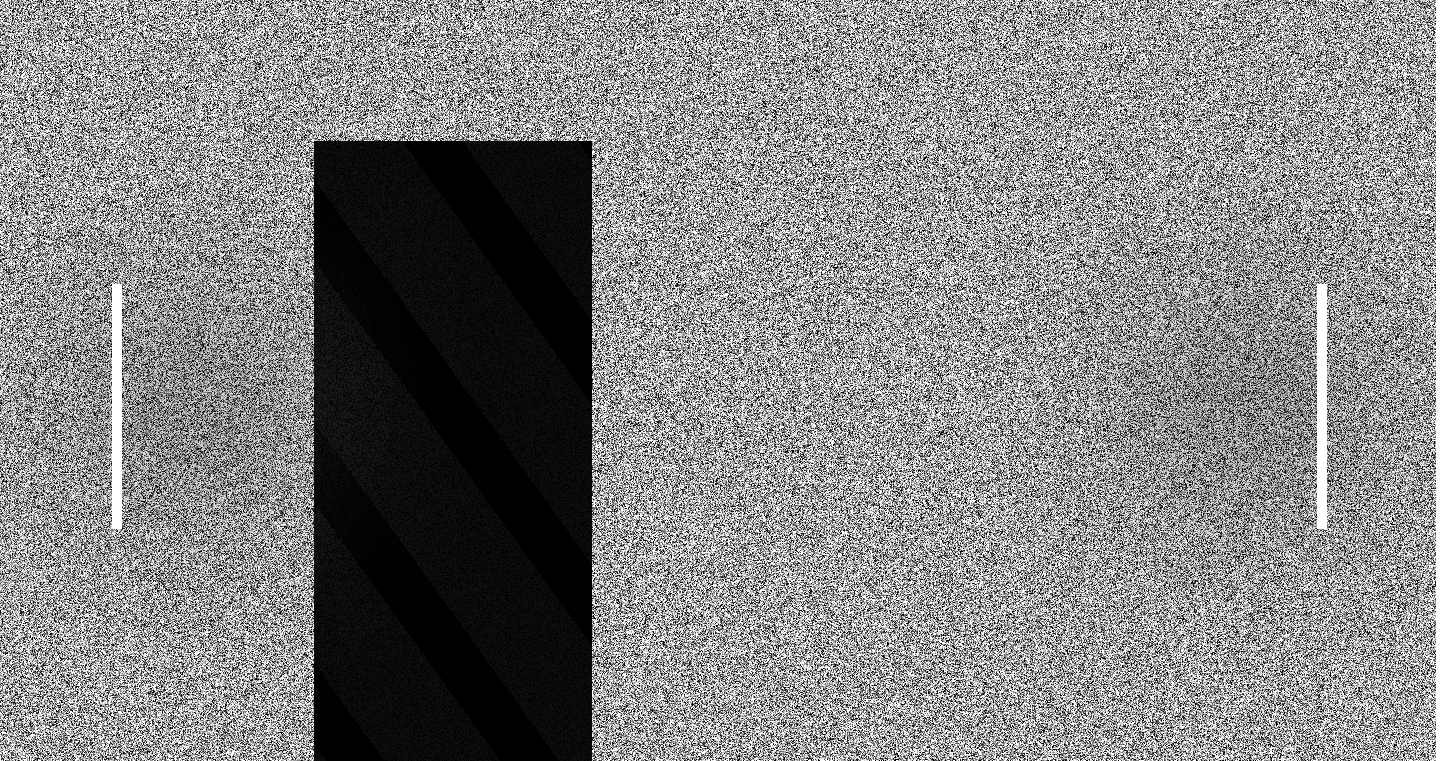
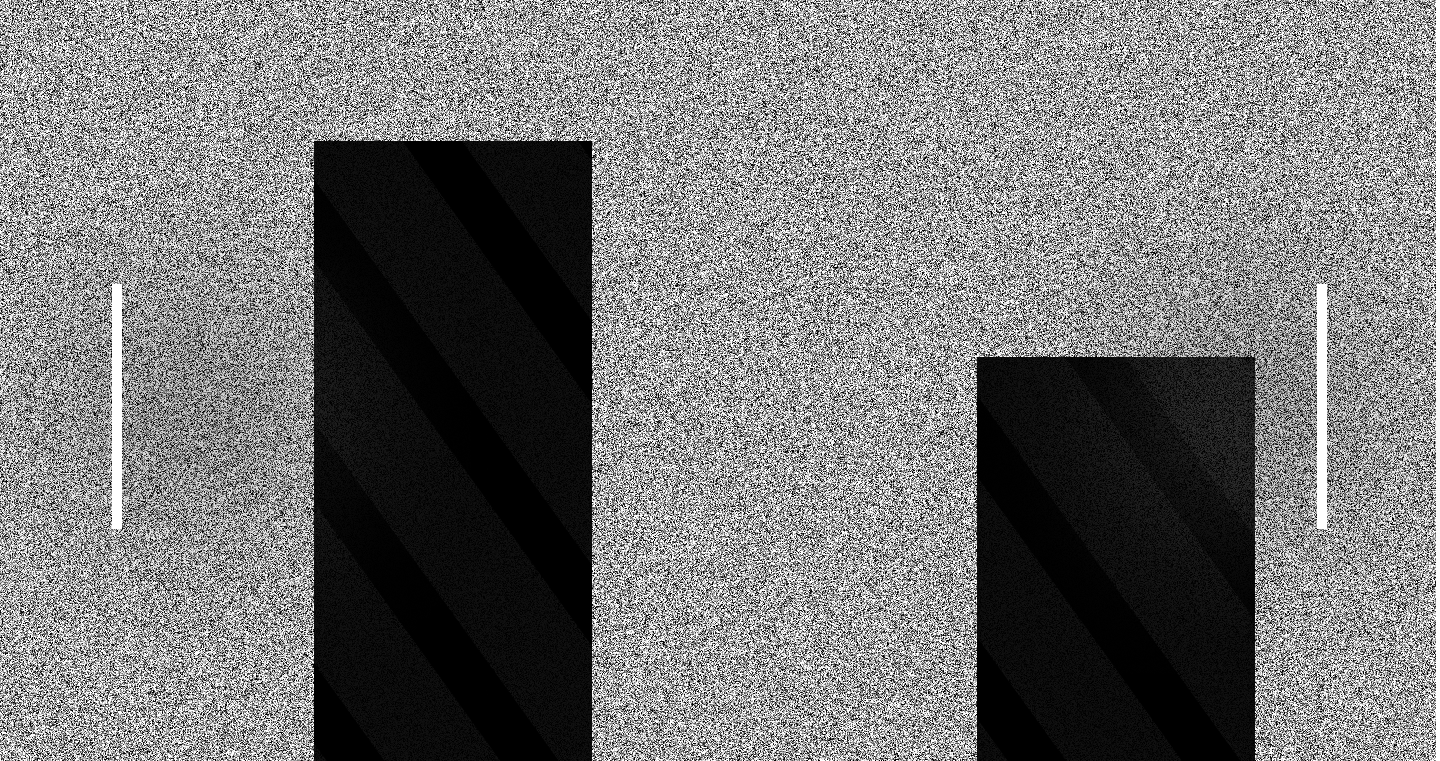
fix: add slider to projects part + inds

Changed region(s): [[0.6562, 0.4534, 0.875, 1.0]]

diff --git a/app/projects/page.jsx b/app/projects/page.jsx
@@ -1,0 +1,222 @@
+"use client"
+
+import { MenuContext } from "@/context/MenuProvider"
+import { useContext, useEffect, useState } from "react"
+
+import Overlay from "@/components/layout/Overlay";
+
+import Button from "@/components/Button"
+
+import Aos from "aos";
+import "aos/dist/aos.css";
+
+function page() {
+
+  let [projectindicator, setProjectIndicator] = useState(1)
+
+  let menuVisibility = useContext(MenuContext)
+
+  let handlePrevProject = () => {
+    if (projectindicator === 1) {
+      setProjectIndicator(3)
+    } else {
+      setProjectIndicator(projectindicator - 1)
+    }
+  }
+  let handleNextProject = () => {
+    if (projectindicator === 3) {
+      setProjectIndicator(1)
+    } else {
+      setProjectIndicator(projectindicator + 1)
+    }
+  }
+
+  useEffect(() => {
+    Aos.init({
+      easing: "ease-out-cubic",
+      once: true,
+      offset: 200,
+    });
+  }, []);
+
+  useEffect(() => {
+    Aos.refresh()
+  }, [])
+
+  return (
+    <>
+
+      {
+        menuVisibility.menu && <Overlay />
+      }
+
+      <section className='container my-5 flex flex-col lg:flex-row gap-y-10 lg:gap-x-28 h-screen' >
+
+        <div className="lg:w-2/3 w-full">
+
+          {/* Project 1 (Content) */}
+          {
+            projectindicator === 1 &&
+            <div data-aos-delay="100" data-aos="fade-right" data-aos-duration="1000" className="w-full  flex flex-col gap-y-14 text-white">
+              <h1 className="flex items-center gap-x-4 font-mono text-5xl lg:text-6xl font-bold mt-10">
+                Projects
+                <span className="text-[#2D2D2D] text-3xl">
+                  01
+                </span>
+              </h1>
+              <div className="flex lg:hidden flex-col gap-y-3 mt-5">
+                <div className="flex justify-between ">
+                  <div className="flex gap-x-3">
+                    <svg onClick={() => { handlePrevProject() }} width="24" height="24" viewBox="0 0 24 24" fill="none" xmlns="http://www.w3.org/2000/svg"> <path d="M12 20L13.425 18.6L7.825 13H20V11H7.825L13.425 5.4L12 4L4 12L12 20Z" fill="white" /> </svg>
+                    <span className="inline-block ml-4 font-bold text-xl text-white font-mono"> 01 </span>
+                  </div>
+                  <svg onClick={() => { handleNextProject() }} width="24" height="24" viewBox="0 0 24 24" fill="none" xmlns="http://www.w3.org/2000/svg"> <path d="M12 20L10.575 18.6L16.175 13H4V11H16.175L10.575 5.4L12 4L20 12L12 20Z" fill="white" /> </svg>
+                </div>
+                <div className="relative top-0 left-0 w-full h-1 bg-white/20">
+                  <div className="absolute top-0 left-o w-1/3 h-full bg-white"> </div>
+                </div>
+              </div>
+              <p>
+                Providing a
+                <span className="inline-block px-3 py-2 border-b border-white">
+                  Multipurpose
+                </span>
+                Educational Platform
+              </p>
+              <p className="font-light">
+                We believe that education is the foundation for a better future. This platform is designed to provide high-quality educational resources for learners of all ages and backgrounds. All educators, artists, and field experts can sell their education courses on this platform or share their courses with other teachers for free.
+              </p>
+              <Button content="Full project" link="/" />
+              <div className="hidden lg:flex flex-col gap-y-3 mt-20">
+                <div className="flex justify-between ">
+                  <div className="flex gap-x-3">
+                    <svg onClick={() => { handlePrevProject() }} width="24" height="24" viewBox="0 0 24 24" fill="none" xmlns="http://www.w3.org/2000/svg"> <path d="M12 20L13.425 18.6L7.825 13H20V11H7.825L13.425 5.4L12 4L4 12L12 20Z" fill="white" /> </svg>
+                    <span className="inline-block ml-4 font-bold text-xl text-white font-mono"> 01 </span>
+                  </div>
+                  <svg onClick={() => { handleNextProject() }} width="24" height="24" viewBox="0 0 24 24" fill="none" xmlns="http://www.w3.org/2000/svg"> <path d="M12 20L10.575 18.6L16.175 13H4V11H16.175L10.575 5.4L12 4L20 12L12 20Z" fill="white" /> </svg>
+                </div>
+                <div className="relative top-0 left-0 w-full h-1 bg-white/20">
+                  <div className="absolute top-0 left-o w-1/3 h-full bg-white"> </div>
+                </div>
+              </div>
+            </div>
+          }
+
+          {/* Project 2 (Content) */}
+          {
+            projectindicator === 2 &&
+            <div data-aos-delay="100" data-aos="fade-left" data-aos-duration="1000" className="w-full  flex flex-col gap-y-14 text-white">
+              <h1 className="flex items-center gap-x-4 font-mono text-5xl lg:text-6xl font-bold mt-10">
+                Projects
+                <span className="text-[#2D2D2D] text-3xl">
+                  02
+                </span>
+              </h1>
+              <div className="flex lg:hidden flex-col gap-y-3 mt-20">
+                <div className="flex justify-between ">
+                  <div className="flex gap-x-3">
+                    <svg onClick={() => { handlePrevProject() }} width="24" height="24" viewBox="0 0 24 24" fill="none" xmlns="http://www.w3.org/2000/svg"> <path d="M12 20L13.425 18.6L7.825 13H20V11H7.825L13.425 5.4L12 4L4 12L12 20Z" fill="white" /> </svg>
+                    <span className="inline-block ml-4 font-bold text-xl text-white font-mono"> 02 </span>
+                  </div>
+                  <svg onClick={() => { handleNextProject() }} width="24" height="24" viewBox="0 0 24 24" fill="none" xmlns="http://www.w3.org/2000/svg"> <path d="M12 20L10.575 18.6L16.175 13H4V11H16.175L10.575 5.4L12 4L20 12L12 20Z" fill="white" /> </svg>
+                </div>
+                <div className="relative top-0 left-0 w-full h-1 bg-white/20">
+                  <div className="absolute top-0 left-1/2 w-1/3 h-full bg-white -translate-x-1/2"> </div>
+                </div>
+              </div>
+              <p>
+                Providing a
+                <span className="inline-block px-3 py-2 border-b border-white">
+                  Multipurpose
+                </span>
+                learning platform
+              </p>
+              <p className="font-light">
+                We believe that education is the foundation for a better future. This platform is designed to provide high-quality educational resources for learners of all ages and backgrounds. All educators, artists, and field experts can sell their education courses on this platform or share their courses with other teachers for free.
+              </p>
+              <Button content="Full project" link="/" />
+              <div className="hidden lg:flex flex-col gap-y-3 mt-20">
+                <div className="flex justify-between ">
+                  <div className="flex gap-x-3">
+                    <svg onClick={() => { handlePrevProject() }} width="24" height="24" viewBox="0 0 24 24" fill="none" xmlns="http://www.w3.org/2000/svg"> <path d="M12 20L13.425 18.6L7.825 13H20V11H7.825L13.425 5.4L12 4L4 12L12 20Z" fill="white" /> </svg>
+                    <span className="inline-block ml-4 font-bold text-xl text-white font-mono"> 02 </span>
+                  </div>
+                  <svg onClick={() => { handleNextProject() }} width="24" height="24" viewBox="0 0 24 24" fill="none" xmlns="http://www.w3.org/2000/svg"> <path d="M12 20L10.575 18.6L16.175 13H4V11H16.175L10.575 5.4L12 4L20 12L12 20Z" fill="white" /> </svg>
+                </div>
+                <div className="relative top-0 left-0 w-full h-1 bg-white/20">
+                  <div className="absolute top-0 left-1/2 w-1/3 h-full bg-white -translate-x-1/2"> </div>
+                </div>
+              </div>
+            </div>
+          }
+
+          {/* Project 3 (Content) */}
+          {projectindicator === 3 &&
+            <div data-aos-delay="100" data-aos="fade-right" data-aos-duration="1000" className="w-full  flex flex-col gap-y-14 text-white">
+              <h1 className="flex items-center gap-x-4 font-mono text-5xl lg:text-6xl font-bold mt-10">
+                Projects
+                <span className="text-[#2D2D2D] text-3xl">
+                  03
+                </span>
+              </h1>
+              <div className="flex lg:hidden flex-col gap-y-3 mt-20">
+                <div className="flex justify-between ">
+                  <div className="flex gap-x-3">
+                    <svg onClick={() => { handlePrevProject() }} width="24" height="24" viewBox="0 0 24 24" fill="none" xmlns="http://www.w3.org/2000/svg"> <path d="M12 20L13.425 18.6L7.825 13H20V11H7.825L13.425 5.4L12 4L4 12L12 20Z" fill="white" /> </svg>
+                    <span className="inline-block ml-4 font-bold text-xl text-white font-mono"> 03 </span>
+                  </div>
+                  <svg onClick={() => { handleNextProject() }} width="24" height="24" viewBox="0 0 24 24" fill="none" xmlns="http://www.w3.org/2000/svg"> <path d="M12 20L10.575 18.6L16.175 13H4V11H16.175L10.575 5.4L12 4L20 12L12 20Z" fill="white" /> </svg>
+                </div>
+                <div className="relative top-0 left-0 w-full h-1 bg-white/20">
+                  <div className="absolute top-0 right-0 w-1/3 h-full bg-white"> </div>
+                </div>
+              </div>
+              <p>
+                Providing a
+                <span className="inline-block px-3 py-2 border-b border-white">
+                  Marketplace
+                </span>
+                Platform
+              </p>
+              <p className="font-light">
+                We understand that starting an online business can be daunting, so we strive to provide a user-friendly platform with all the tools and resources you need to succeed. Whether you're a seasoned entrepreneur or just starting out, our platform makes it easy to list and sell your products, manage orders, and connect with customers.
+              </p>
+              <Button content="Full project" link="/" />
+              <div className="hidden lg:flex flex-col gap-y-3 mt-20">
+                <div className="flex justify-between ">
+                  <div className="flex gap-x-3">
+                    <svg onClick={() => { handlePrevProject() }} width="24" height="24" viewBox="0 0 24 24" fill="none" xmlns="http://www.w3.org/2000/svg"> <path d="M12 20L13.425 18.6L7.825 13H20V11H7.825L13.425 5.4L12 4L4 12L12 20Z" fill="white" /> </svg>
+                    <span className="inline-block ml-4 font-bold text-xl text-white font-mono"> 03 </span>
+                  </div>
+                  <svg onClick={() => { handleNextProject() }} width="24" height="24" viewBox="0 0 24 24" fill="none" xmlns="http://www.w3.org/2000/svg"> <path d="M12 20L10.575 18.6L16.175 13H4V11H16.175L10.575 5.4L12 4L20 12L12 20Z" fill="white" /> </svg>
+                </div>
+                <div className="relative top-0 left-0 w-full h-1 bg-white/20">
+                  <div className="absolute top-0 right-0 w-1/3 h-full bg-white"> </div>
+                </div>
+              </div>
+            </div>}
+
+        </div>
+
+        {
+          projectindicator === 1 &&
+          <div data-aos-delay="100" data-aos="fade-down" data-aos-duration="1000" className="lg:w-1/3 w-full bg-white h-full bg-cover rounded-3xl" style={{ backgroundImage: `url('/images/projects/preview-1.jpg')` }}></div>
+        }
+
+        {
+          projectindicator === 2 &&
+          <div data-aos-delay="100" data-aos="fade-up" data-aos-duration="1000" className="lg:w-1/3 w-full bg-white h-full bg-cover rounded-3xl" style={{ backgroundImage: `url('/images/projects/preview-2.jpg')` }}></div>
+        }
+
+        {
+          projectindicator === 3 &&
+          <div data-aos-delay="100" data-aos="fade-down" data-aos-duration="1000" className="lg:w-1/3 w-full bg-white h-full bg-cover rounded-3xl" style={{ backgroundImage: `url('/images/projects/preview-3.jpg')` }}></div>
+        }
+
+      </section>
+
+    </>
+  )
+}
+
+export default page

diff --git a/components/Button.jsx b/components/Button.jsx
@@ -12,7 +12,7 @@ function Button({ content, classes, outline, link }) {
   if (outline) {
     return <Link href={link} className={`flex items-center justify-center w-44 h-16 rounded-3xl bg-transparent text-white border border-white font-sans ${classes}`}  onClick={() => { menuVisibilty.setMenu(false) }}>{content}</Link>
   } else {
-    return <Link href={link} className={`flex items-center justify-center w-36 h-16 rounded-full bg-white text-black font-sans ${classes}`}>{content}</Link>
+    return <Link href={link} className={`flex items-center justify-center w-44 h-16 rounded-3xl bg-white text-black font-sans ${classes}`}>{content}</Link>
   }
 
 }

diff --git a/components/layout/Footer.jsx b/components/layout/Footer.jsx
@@ -119,7 +119,7 @@ function Footer() {
               Privacy policy
             </li>
           </ul>
-          <span className="w-full lg:w-auto text-right">© 2020, All Rights Reserved</span>
+          <span className="w-full lg:w-auto text-right">© 2023, All Rights Reserved Wsa Team | Design By <a className="font-bold text-white" href="http://www.rivdesign.se/">Riv Design</a> </span>
         </div>
       </section>
     </footer>

diff --git a/components/projects/ProjectSummery.jsx b/components/projects/ProjectSummery.jsx
@@ -1,0 +1,8 @@
+
+function ProjectSummery() {
+  return (
+    <div>ProjectSummery</div>
+  )
+}
+
+export default ProjectSummery
